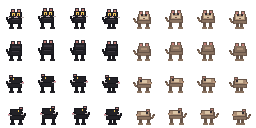
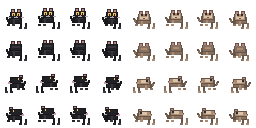
fix: keep pet candidates quadrupedal and directional

diff --git a/docs/art/candidates/pixel-movement/gate1-pets-pixel32/preview.js b/docs/art/candidates/pixel-movement/gate1-pets-pixel32/preview.js
@@ -18,8 +18,7 @@ const canvas = document.querySelector('#sprite');
 const context = canvas.getContext('2d');
 context.imageSmoothingEnabled = false;
 let timer;
-let poseIndex = 0;
-const loop = ['hop-a', 'hop-b', 'land', 'idle'];
+let animationIndex = 0;
 
 function paint() {
   const species = speciesInput.value;
@@ -43,12 +42,23 @@ function stop() {
 for (const input of [speciesInput, directionInput, poseInput]) input.addEventListener('change', () => { stop(); paint(); });
 playButton.addEventListener('click', () => {
   if (timer) { stop(); return; }
+  const animation = manifest.animations[speciesInput.value][directionInput.value];
+  const hop = animation.hop;
+  animationIndex = 0;
+  poseInput.value = manifest.frames[hop.frames[0]].pose;
+  paint();
   playButton.setAttribute('aria-pressed', 'true');
   playButton.textContent = '停止';
   timer = setInterval(() => {
-    poseIndex = (poseIndex + 1) % loop.length;
-    poseInput.value = loop[poseIndex];
+    animationIndex += 1;
+    if (animationIndex >= hop.frames.length) {
+      poseInput.value = manifest.frames[animation.returnTo === 'idle' ? animation.idle.frames[0] : animation.hop.frames.at(-1)].pose;
+      stop();
+      paint();
+      return;
+    }
+    poseInput.value = manifest.frames[hop.frames[animationIndex]].pose;
     paint();
-  }, 130);
+  }, hop.frameDurationMs);
 });
 paint();

diff --git a/tools/art/check_gate1_pets_pixel32.spec.ts b/tools/art/check_gate1_pets_pixel32.spec.ts
@@ -42,6 +42,27 @@ describe('pixel32 cat and quokka candidate checker', () => {
     } finally { await f.cleanup(); }
   });
 
+  it('rejects cross-direction clips, looping hops, and altered return semantics', async () => {
+    const f = await fixture();
+    try {
+      const original = await f.readManifest();
+      const crossDirection = structuredClone(original);
+      crossDirection.animations.cat.down.hop.frames[0] = 'cat-up-hop-a';
+      await f.writeManifest(crossDirection);
+      expect((await validateCandidatePets(f.directory)).join('\n')).toContain('same-direction hop-a/hop-b/land');
+
+      const loopingHop = structuredClone(original);
+      loopingHop.animations.quokka.left.hop.loop = true;
+      await f.writeManifest(loopingHop);
+      expect((await validateCandidatePets(f.directory)).join('\n')).toContain('non-looping');
+
+      const wrongReturn = structuredClone(original);
+      wrongReturn.animations.cat.right.hop.returnTo = 'walk';
+      await f.writeManifest(wrongReturn);
+      expect((await validateCandidatePets(f.directory)).join('\n')).toContain('returning to idle');
+    } finally { await f.cleanup(); }
+  });
+
   it('rejects atlas byte corruption', async () => {
     const f = await fixture();
     try {

diff --git a/docs/art/candidates/pixel-movement/gate1-pets-pixel32/README.zh-TW.md b/docs/art/candidates/pixel-movement/gate1-pets-pixel32/README.zh-TW.md
@@ -13,6 +13,7 @@
 - `cat` 是四足黑色家貓；正面有尖耳、短口鼻、鬍鬚和金色眼睛，側面可見尾巴。
 - `quokka` 是棕灰色、低伏緊實的四足有袋動物，使用寬短口鼻、小圓耳、較有力後軀和自然尾巴來區別貓與小熊輪廓。
 - 每種動物提供下、上、左、右四方向；每方向含 `idle`、`hop-a`、`hop-b`、`land` 四格。每格原生 `32 × 32` RGBA、錨點／pivot `(16,28)`，用最近鄰 2× 放大。
+- 每個方向各有獨立動畫契約：`idle` 單格循環顯示，`hop` 依序播放 `hop-a`、`hop-b`、`land` 後回到同方向 `idle`；不得跨方向串接畫格。
 - 已核准靜態黑貓與矮袋鼠 PNG 僅供辨認物種特徵；不沿用其核准到本圖集任何像素、朝向、動作或尺寸。
 - 素材由整數像素圖元手工編碼生成；未使用第三方遊戲素材、使用者提供的網路遊戲畫面或圖生圖輸入。
 
@@ -34,4 +35,4 @@ node tools/art/check_gate1_pets_pixel32.mjs
 npx vitest run tools/art/check_gate1_pets_pixel32.spec.ts
 ```
 
-checker 驗證固定雙物種與 32 幀、候選狀態、32×32 RGBA 像素規格、anchor/pivot、atlas/逐幀雜湊和綁定 generator 的逐位元重現。checker 無法判斷物種是否真的可辨認、動作是否自然或畫面是否通過人工美術／裝置審查。
+checker 驗證固定雙物種與 32 幀、候選狀態、32×32 RGBA 像素規格、anchor/pivot、逐方向動畫引用、atlas/逐幀雜湊和綁定 generator 的逐位元重現。checker 無法判斷四足／物種是否真的可辨認、動作是否自然或畫面是否通過人工美術／裝置審查。
